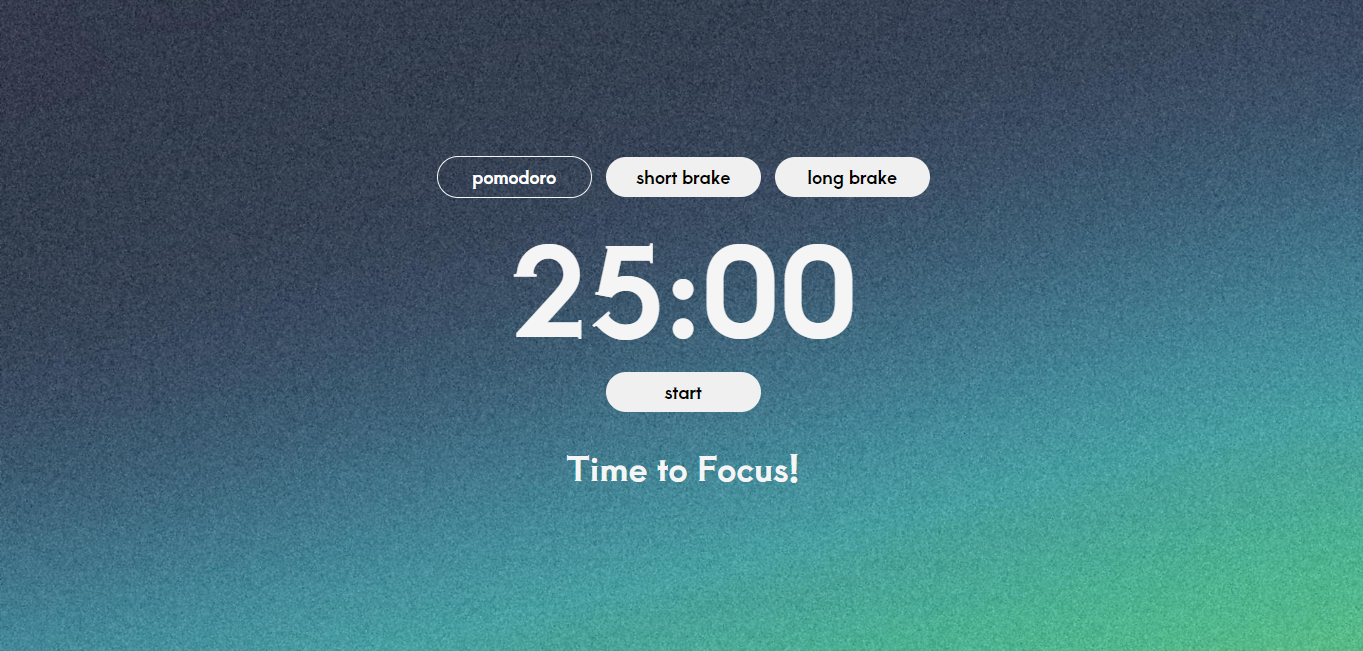
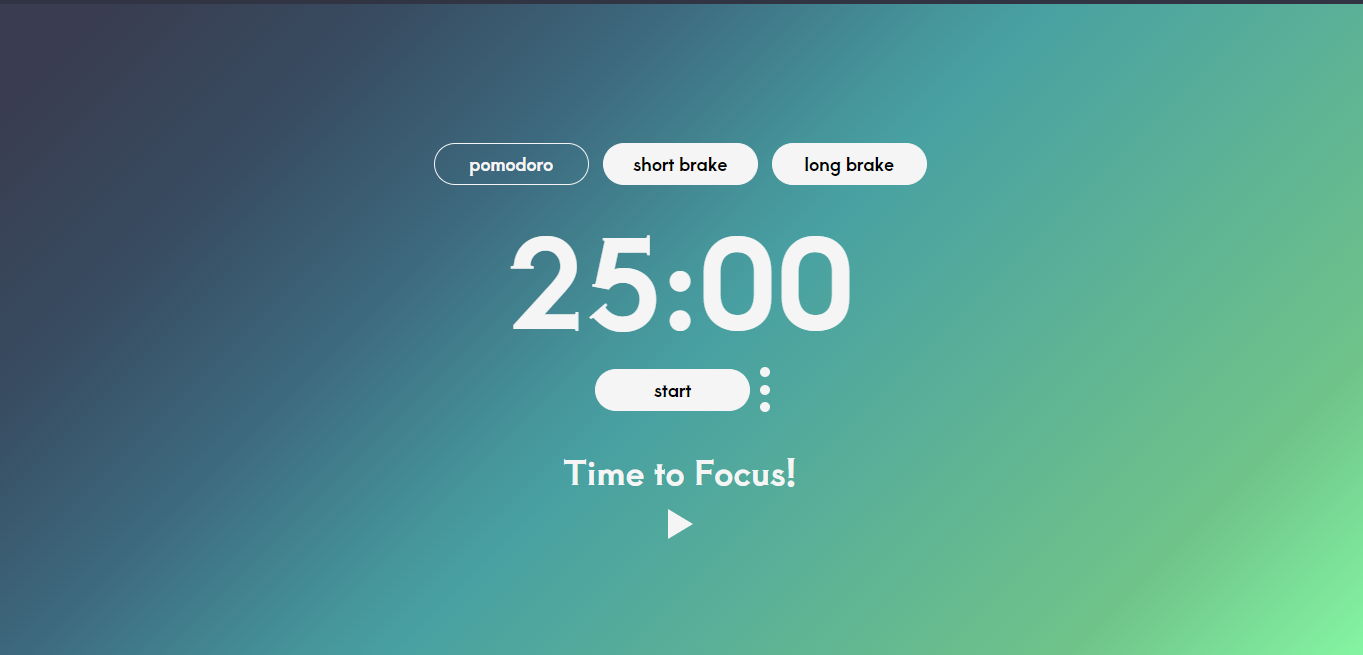
feat: adding menu to toggle themes

diff --git a/style.css b/style.css
@@ -2,6 +2,9 @@
 
 :root {
   -webkit-tap-highlight-color: transparent;
+}
+
+.green-theme {
   --background-color: linear-gradient(
     315deg,
     hsla(136, 85%, 74%, 1) 0%,
@@ -208,6 +211,54 @@
   transform: scale(1.1);
 }
 
+.menu {
+  color: aliceblue;
+  display: flex;
+  align-items: center;
+  justify-content: center;
+  position: fixed;
+  top: 50;
+  left: 50;
+  /* min-width: 80%;
+  min-height: 50%; */
+  width: 50%;
+  height: 100%;
+  font-family: "Aoboshi One", serif;
+}
+
+.menu-header {
+  display: flex;
+  justify-content: space-between;
+}
+
+.menu-header button img {
+  height: 25px;
+  width: 25px;
+}
+
+.menu button {
+  color: whitesmoke;
+  cursor: pointer;
+  font-family: "Aoboshi One", serif;
+  background: transparent;
+  border: none;
+}
+
+.menu img {
+  height: 80%;
+  width: 80%;
+  object-fit: contain;
+}
+
+.menu-content {
+  margin: 15% auto;
+  padding: 20px;
+  width: 100%;
+  border: 1px solid #888;
+  border-radius: 15px;
+  background-color: #333333;
+}
+
 @media only screen and (max-width: 501px) {
   .container {
     width: 100dvw;
@@ -231,9 +282,14 @@
   }
   #btndots {
     height: 40px;
+    flex-direction: row;
   }
   .dots {
     width: 10px;
     height: 10px;
+  }
+  .menu {
+    width: 95%;
+    height: 100%;
   }
 }

diff --git a/src/Menu.js b/src/Menu.js
@@ -1,0 +1,45 @@
+const Menu = {
+  render() {
+    const menu = document.createElement("div");
+
+    menu.classList.add("menu");
+
+    menu.innerHTML = `
+    <div class="menu-content">
+      <div class="menu-header">
+      <p>Themes:</p>
+        <button id="close-menu">
+          <img src="../imgs/xx.png">
+        </button>
+      </div>
+      <div class="menu-body">
+        <button id="pink-theme"> <img src="../imgs/img-pink.png"></button>
+        <button id="green-theme"> <img src="../imgs/img-project.png"></button>
+      </div>
+    </div>
+    `;
+
+    const closeMenu = menu.querySelector("#close-menu");
+
+    closeMenu.addEventListener("click", () => {
+      menu.remove();
+    });
+
+    const pinkTheme = menu.querySelector("#pink-theme");
+    const greenTheme = menu.querySelector("#green-theme");
+
+    pinkTheme.addEventListener("click", () => {
+      document.body.classList.add("pink-theme");
+      document.body.classList.remove("green-theme");
+    });
+
+    greenTheme.addEventListener("click", () => {
+      document.body.classList.add("green-theme");
+      document.body.classList.remove("pink-theme");
+    });
+
+    document.querySelector(".container").appendChild(menu);
+  },
+};
+
+export { Menu };

diff --git a/src/Buttons.js b/src/Buttons.js
@@ -1,5 +1,6 @@
 import { Timer } from "./Timer.js";
 import { Music } from "./Music.js";
+import { Menu } from "./Menu.js";
 
 const Buttons = {
   buttonStart: document.querySelector("#buttonStart"),
@@ -14,6 +15,10 @@ const Buttons = {
 
   toggleTheme() {
     document.body.classList.toggle("pink-theme");
+  },
+
+  showMenu() {
+    Menu.render();
   },
 
   clickMusic() {
@@ -49,7 +54,7 @@ const Buttons = {
   },
 
   addEventListeners() {
-    this.buttonDots.addEventListener("click", this.toggleTheme.bind(this));
+    this.buttonDots.addEventListener("click", this.showMenu.bind(this));
     this.btnMusic.addEventListener("click", this.clickMusic.bind(this));
     this.buttonStart.addEventListener("click", this.start.bind(this));
     this.buttonPause.addEventListener("click", this.pause.bind(this));

diff --git a/src/App.js b/src/App.js
@@ -2,6 +2,7 @@ import { Timer } from "./Timer.js";
 import { Buttons } from "./Buttons.js";
 import { Modal } from "./Modal.js";
 import { TextPomodoro } from "./TextPomodoro.js";
+import { Menu } from "./Menu.js";
 
 const App = {
   async start() {

diff --git a/index.html b/index.html
@@ -37,7 +37,7 @@
     <link rel="shortcut icon" href="imgs/clock.svg" type="image/x-icon" />
   </head>
 
-  <body>
+  <body class="green-theme">
     <main class="container">
       <div id="modal"></div>
       <div class="pomodoro">
